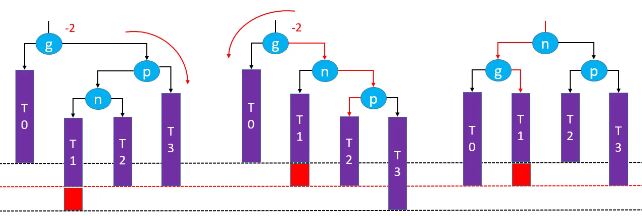
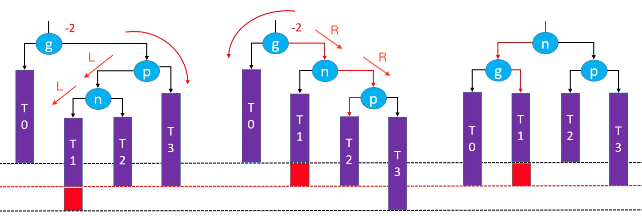
Site updated: 2021-01-26 11:56:43

diff --git a/2021/01/15/数据结构与算法/AVL树/index.html b/2021/01/15/数据结构与算法/AVL树/index.html
@@ -86,7 +86,10 @@
 <meta property="og:image" content="http://yoursite.com/2021/01/15/数据结构与算法/AVL树/AVL树08.png">
 <meta property="og:image" content="http://yoursite.com/2021/01/15/数据结构与算法/AVL树/AVL树09.png">
 <meta property="og:image" content="http://yoursite.com/2021/01/15/数据结构与算法/AVL树/AVL树10.png">
-<meta property="og:updated_time" content="2021-01-22T10:21:19.626Z">
+<meta property="og:image" content="http://yoursite.com/2021/01/15/数据结构与算法/AVL树/AVL树11.png">
+<meta property="og:image" content="http://yoursite.com/2021/01/15/数据结构与算法/AVL树/AVL树12.png">
+<meta property="og:image" content="http://yoursite.com/2021/01/15/数据结构与算法/AVL树/AVL树07.png">
+<meta property="og:updated_time" content="2021-01-26T03:56:15.321Z">
 <meta name="twitter:card" content="summary">
 <meta name="twitter:title" content="AVL树">
 <meta name="twitter:description" content="AVL树是最先发明的自平衡二叉查找树。在AVL树中任何节点的两个子树的高度最大差别为1，所以它也被称为高度平衡树。增加和删除可能需要通过一次或多次树旋转来重新平衡这个树。AVL树得名于它的发明者G. M. Adelson-Velsky和E. M. Landis，他们在1962年的论文《An algorithm for the organization of information》中发表了它。">
@@ -361,16 +364,33 @@
 <li><code>g.left = p.right</code></li>
 <li><code>p.right = g</code></li>
 <li>让<code>p</code>成为这棵子树的根节点</li>
+<li>更新 <code>T2</code>、<code>p</code>、<code>g</code> 的 parent 属性</li>
+<li>先后更新 <code>g</code>、<code>p</code> 的高度</li>
 </ol>
 <p>旋转后的子树又恢复了平衡，仍然是一棵二叉搜索树：T0 &lt; g &lt; T1 &lt; p &lt; T2 &lt; n &lt; T3。</p>
-<p>注意：一定要修改<code>T2</code>、<code>p</code>、<code>g</code>的 parent 属性；依次更新<code>g</code>、<code>p</code>的高度（因为旋转后，<code>g</code>是<code>p</code>的右子树，所以先计算子树的高度，然后 +1 就是<code>p</code>的高度）。<br><img src="/2021/01/15/数据结构与算法/AVL树/AVL树09.png" alt="AVL树"></p>
+<p>注意：一定要修改 <code>T2</code>、<code>p</code>、<code>g</code> 的 parent 属性；依次更新 <code>g</code>、<code>p</code> 的高度（因为旋转后，<code>g</code> 是 <code>p</code> 的右子树，所以先计算子树的高度，然后 +1 就是 <code>p</code> 的高度）。<br><img src="/2021/01/15/数据结构与算法/AVL树/AVL树09.png" alt="AVL树"></p>
 <h2 id="RR-左旋转（单旋）"><a href="#RR-左旋转（单旋）" class="headerlink" title="RR-左旋转（单旋）"></a>RR-左旋转（单旋）</h2><ol>
 <li><code>g.right = p.left</code></li>
 <li><code>p.left = g</code></li>
 <li>让<code>p</code>成为这个子树的根节点</li>
+<li>更新 <code>T1</code>、<code>p</code>、<code>g</code> 的 parent 属性</li>
+<li>先后更新 <code>g</code>、<code>p</code> 的高度</li>
 </ol>
-<p>旋转后的子树又恢复了平衡，仍然是一棵二叉搜索树：T0 &lt; g &lt; T1 &lt; p &lt; T2 &lt; n &lt; T3。</p>
-<p>注意：一定要修改<code>T1</code>、<code>p</code>、<code>g</code>的 parent 属性；依次更新<code>g</code>、<code>p</code>的高度。<br><img src="/2021/01/15/数据结构与算法/AVL树/AVL树10.png" alt="AVL树"></p>
+<p>旋转后的子树又恢复了平衡，仍然是一棵二叉搜索树：T0 &lt; g &lt; T1 &lt; p &lt; T2 &lt; n &lt; T3。<br><img src="/2021/01/15/数据结构与算法/AVL树/AVL树10.png" alt="AVL树"></p>
+<h2 id="LR-RR左旋转，LL右旋转（双旋）"><a href="#LR-RR左旋转，LL右旋转（双旋）" class="headerlink" title="LR-RR左旋转，LL右旋转（双旋）"></a>LR-RR左旋转，LL右旋转（双旋）</h2><p><img src="/2021/01/15/数据结构与算法/AVL树/AVL树11.png" alt="AVL树"></p>
+<h2 id="RL-LL右旋转，RR左旋转（双旋）"><a href="#RL-LL右旋转，RR左旋转（双旋）" class="headerlink" title="RL-LL右旋转，RR左旋转（双旋）"></a>RL-LL右旋转，RR左旋转（双旋）</h2><p><img src="/2021/01/15/数据结构与算法/AVL树/AVL树12.png" alt="AVL树"></p>
+<h1 id="CODE"><a href="#CODE" class="headerlink" title="CODE"></a>CODE</h1><h2 id="继承结构"><a href="#继承结构" class="headerlink" title="继承结构"></a>继承结构</h2><p>创建 AVLTree 继承自 BST。红黑树同理，创建 RBTree 继承自 BST。<br><img src="/2021/01/15/数据结构与算法/AVL树/AVL树07.png" alt="AVL树"></p>
+<h2 id="affterAdd"><a href="#affterAdd" class="headerlink" title="affterAdd"></a>affterAdd</h2><p>在节点的添加、删除操作之后，先办法让二叉搜索树恢复平衡（减小树的高度）。<br>在 BST 定义：<br><figure class="highlight crmsh"><table><tr><td class="gutter"><pre><div class="line">1</div></pre></td><td class="code"><pre><div class="line">protected void afterAdd(<span class="keyword">Node</span><span class="title">&lt;E</span>&gt; <span class="keyword">node</span><span class="title">) &#123; &#125;</span></div></pre></td></tr></table></figure></p>
+<p>在 AVLTree 实现：<br><figure class="highlight crmsh"><table><tr><td class="gutter"><pre><div class="line">1</div><div class="line">2</div><div class="line">3</div><div class="line">4</div><div class="line">5</div><div class="line">6</div><div class="line">7</div><div class="line">8</div><div class="line">9</div><div class="line">10</div><div class="line">11</div><div class="line">12</div><div class="line">13</div><div class="line">14</div><div class="line">15</div><div class="line">16</div><div class="line">17</div><div class="line">18</div><div class="line">19</div><div class="line">20</div><div class="line">21</div><div class="line">22</div></pre></td><td class="code"><pre><div class="line">@Override</div><div class="line">protected void afterAdd(<span class="keyword">Node</span><span class="title">&lt;E</span>&gt; <span class="keyword">node</span><span class="title">) &#123;</span></div><div class="line"><span class="title">    while</span> ((<span class="keyword">node</span> <span class="title">= node</span>.parent) != null) &#123;</div><div class="line">        if (isBalanced(<span class="keyword">node</span><span class="title">)) &#123;</span></div><div class="line"><span class="title">            // 更新高度</span></div><div class="line"><span class="title">            updateHeight</span>(<span class="keyword">node</span><span class="title">);</span></div><div class="line"><span class="title">        &#125; else</span> &#123;</div><div class="line">            // 恢复平衡</div><div class="line">            rebalance(<span class="keyword">node</span><span class="title">);</span></div><div class="line"><span class="title">            // 整棵树恢复平衡</span></div><div class="line"><span class="title">            break</span>;</div><div class="line">        &#125;</div><div class="line">    &#125;</div><div class="line">&#125;</div><div class="line"></div><div class="line">private boolean isBalanced(<span class="keyword">Node</span><span class="title">&lt;E</span>&gt; <span class="keyword">node</span><span class="title">) &#123;</span></div><div class="line"><span class="title">    return</span> Math.abs(((AVLNode<span class="tag">&lt;E&gt;</span>)<span class="keyword">node</span><span class="title">).balanceFactor</span>()) <span class="tag">&lt;= 1;</span></div><div class="line"><span class="tag">&#125;</span></div><div class="line"><span class="tag"></span></div><div class="line"><span class="tag">private void updateHeight(Node&lt;E&gt;</span> <span class="keyword">node</span><span class="title">) &#123;</span></div><div class="line"><span class="title">    ((AVLNode</span><span class="tag">&lt;E&gt;</span>)<span class="keyword">node</span><span class="title">).updateHeight</span>();</div><div class="line">&#125;</div></pre></td></tr></table></figure></p>
+<h2 id="AVLNode"><a href="#AVLNode" class="headerlink" title="AVLNode"></a>AVLNode</h2><ol>
+<li>因为 Node 里用不到 height 属性，所以定义 AVLNode 继承自 Node，添加 height 属性；</li>
+<li><code>isBalanced()</code> 是否平衡；</li>
+<li><code>updateHeight()</code> 更新高度；</li>
+<li><code>tallerChild()</code> 高度较高的子树，用于恢复平衡；<figure class="highlight groovy"><table><tr><td class="gutter"><pre><div class="line">1</div><div class="line">2</div><div class="line">3</div><div class="line">4</div><div class="line">5</div><div class="line">6</div><div class="line">7</div><div class="line">8</div><div class="line">9</div><div class="line">10</div><div class="line">11</div><div class="line">12</div><div class="line">13</div><div class="line">14</div><div class="line">15</div><div class="line">16</div><div class="line">17</div><div class="line">18</div><div class="line">19</div><div class="line">20</div><div class="line">21</div><div class="line">22</div><div class="line">23</div><div class="line">24</div><div class="line">25</div><div class="line">26</div><div class="line">27</div><div class="line">28</div></pre></td><td class="code"><pre><div class="line"><span class="keyword">private</span> <span class="keyword">static</span> <span class="class"><span class="keyword">class</span> <span class="title">AVLNode</span>&lt;<span class="title">E</span>&gt; <span class="keyword">extends</span> <span class="title">Node</span>&lt;<span class="title">E</span>&gt; &#123;</span></div><div class="line">    <span class="comment">//叶子节点高度默认1</span></div><div class="line">    <span class="keyword">int</span> height = <span class="number">1</span>;</div><div class="line">    </div><div class="line">    <span class="keyword">public</span> AVLNode(E element, Node&lt;E&gt; parent) &#123;</div><div class="line">        <span class="keyword">super</span>(element, parent);</div><div class="line">    &#125;</div><div class="line">    </div><div class="line">    <span class="keyword">public</span> <span class="keyword">int</span> balanceFactor() &#123;</div><div class="line">        <span class="keyword">int</span> leftHeight = left == <span class="literal">null</span> ? 0 : ((AVLNode&lt;E&gt;)left).height;</div><div class="line">        <span class="keyword">int</span> rightHeight = right == <span class="literal">null</span> ? 0 : ((AVLNode&lt;E&gt;)right).height;</div><div class="line">        <span class="keyword">return</span> leftHeight - rightHeight;</div><div class="line">    &#125;</div><div class="line">    </div><div class="line">    <span class="keyword">public</span> <span class="keyword">void</span> updateHeight() &#123;</div><div class="line">        <span class="keyword">int</span> leftHeight = left == <span class="literal">null</span> ? 0 : ((AVLNode&lt;E&gt;)left).height;</div><div class="line">        <span class="keyword">int</span> rightHeight = right == <span class="literal">null</span> ? 0 : ((AVLNode&lt;E&gt;)right).height;</div><div class="line">        height= <span class="number">1</span> + Math.max(leftHeight, rightHeight);</div><div class="line">    &#125;</div><div class="line">    </div><div class="line">    <span class="keyword">public</span> Node&lt;E&gt; tallerChild() &#123;</div><div class="line">        <span class="keyword">int</span> leftHeight = left == <span class="literal">null</span> ? 0 : ((AVLNode&lt;E&gt;)left).height;</div><div class="line">        <span class="keyword">int</span> rightHeight = right == <span class="literal">null</span> ? 0 : ((AVLNode&lt;E&gt;)right).height;</div><div class="line">        <span class="keyword">if</span> (leftHeight &gt; rightHeight) <span class="keyword">return</span> left;</div><div class="line">        <span class="keyword">if</span> (leftHeight &lt; rightHeight) <span class="keyword">return</span> right;</div><div class="line">        <span class="keyword">return</span> isLeftChild() ? left : right;</div><div class="line">    &#125;</div><div class="line">&#125;</div></pre></td></tr></table></figure>
+</li>
+</ol>
+<h2 id="rebalance"><a href="#rebalance" class="headerlink" title="rebalance"></a>rebalance</h2><figure class="highlight lasso"><table><tr><td class="gutter"><pre><div class="line">1</div><div class="line">2</div><div class="line">3</div><div class="line">4</div><div class="line">5</div><div class="line">6</div><div class="line">7</div><div class="line">8</div><div class="line">9</div><div class="line">10</div><div class="line">11</div><div class="line">12</div><div class="line">13</div><div class="line">14</div><div class="line">15</div><div class="line">16</div><div class="line">17</div><div class="line">18</div><div class="line">19</div><div class="line">20</div><div class="line">21</div><div class="line">22</div><div class="line">23</div><div class="line">24</div><div class="line">25</div><div class="line">26</div><div class="line">27</div><div class="line">28</div><div class="line">29</div><div class="line">30</div><div class="line">31</div><div class="line">32</div><div class="line">33</div><div class="line">34</div><div class="line">35</div><div class="line">36</div><div class="line">37</div><div class="line">38</div><div class="line">39</div><div class="line">40</div><div class="line">41</div><div class="line">42</div><div class="line">43</div><div class="line">44</div><div class="line">45</div><div class="line">46</div><div class="line">47</div><div class="line">48</div><div class="line">49</div><div class="line">50</div><div class="line">51</div><div class="line">52</div><div class="line">53</div><div class="line">54</div><div class="line">55</div><div class="line">56</div><div class="line">57</div><div class="line">58</div><div class="line">59</div><div class="line">60</div><div class="line">61</div><div class="line">62</div><div class="line">63</div><div class="line">64</div><div class="line">65</div><div class="line">66</div><div class="line">67</div><div class="line">68</div><div class="line">69</div><div class="line">70</div><div class="line">71</div><div class="line">72</div><div class="line">73</div><div class="line">74</div><div class="line">75</div><div class="line">76</div><div class="line">77</div><div class="line">78</div><div class="line">79</div><div class="line">80</div></pre></td><td class="code"><pre><div class="line"><span class="comment">// 恢复平衡</span></div><div class="line"><span class="keyword">private</span> <span class="literal">void</span> rebalance(Node&lt;E&gt; grand) &#123;</div><div class="line">    Node&lt;E&gt; <span class="keyword">parent</span> = ((AVLNode&lt;E&gt;)grand).tallerChild();</div><div class="line">    Node&lt;E&gt; node = ((AVLNode&lt;E&gt;)<span class="keyword">parent</span>).tallerChild();</div><div class="line">    <span class="keyword">if</span> (<span class="keyword">parent</span>.isLeftChild()) &#123; <span class="comment">//L</span></div><div class="line">        <span class="keyword">if</span> (node.isLeftChild()) &#123; <span class="comment">//LL</span></div><div class="line">            roteRight(grand);</div><div class="line">        &#125; <span class="keyword">else</span> &#123; <span class="comment">//LR</span></div><div class="line">            roteLeft(<span class="keyword">parent</span>);</div><div class="line">            roteRight(grand);</div><div class="line">        &#125;</div><div class="line">    &#125; <span class="keyword">else</span> &#123; <span class="comment">//R</span></div><div class="line">        <span class="keyword">if</span> (node.isLeftChild()) &#123; <span class="comment">//RL</span></div><div class="line">            roteRight(<span class="keyword">parent</span>);</div><div class="line">            roteLeft(grand);</div><div class="line">        &#125; <span class="keyword">else</span> &#123; <span class="comment">//RR</span></div><div class="line">            roteLeft(grand);</div><div class="line">        &#125;</div><div class="line">    &#125;</div><div class="line">&#125;</div><div class="line"></div><div class="line"><span class="comment">//左旋转（RR）</span></div><div class="line"><span class="keyword">private</span> <span class="literal">void</span> roteLeft(Node&lt;E&gt; grand) &#123;</div><div class="line">    Node&lt;E&gt; <span class="keyword">parent</span> = grand.right;</div><div class="line">    Node&lt;E&gt; child = <span class="keyword">parent</span>.left;</div><div class="line">    grand.right = child;</div><div class="line">    <span class="keyword">parent</span>.left = grand;</div><div class="line">    </div><div class="line">    <span class="comment">//让parent成为子树的根节点</span></div><div class="line">    <span class="keyword">parent</span>.<span class="keyword">parent</span> = grand.<span class="keyword">parent</span>;</div><div class="line">    <span class="keyword">if</span> (grand.isLeftChild()) &#123;</div><div class="line">        grand.<span class="keyword">parent</span>.left = <span class="keyword">parent</span>;</div><div class="line">    &#125; <span class="keyword">else</span> <span class="keyword">if</span> (grand.isRightChild()) &#123;</div><div class="line">        grand.<span class="keyword">parent</span>.right = <span class="keyword">parent</span>;</div><div class="line">    &#125; <span class="keyword">else</span> &#123;</div><div class="line">        root = <span class="keyword">parent</span>;</div><div class="line">    &#125;</div><div class="line">    </div><div class="line">    <span class="comment">//更新child的parent</span></div><div class="line">    <span class="keyword">if</span> (child != <span class="built_in">null</span>) &#123;</div><div class="line">        child.<span class="keyword">parent</span> = grand;</div><div class="line">    &#125;</div><div class="line">    </div><div class="line">    <span class="comment">//更新grand的parent</span></div><div class="line">    grand.<span class="keyword">parent</span> = <span class="keyword">parent</span>;</div><div class="line">    </div><div class="line">    <span class="comment">//更新高度</span></div><div class="line">    updateHeight(grand);</div><div class="line">    updateHeight(<span class="keyword">parent</span>);</div><div class="line">&#125;</div><div class="line"></div><div class="line"><span class="comment">//右旋转（LL）</span></div><div class="line"><span class="keyword">private</span> <span class="literal">void</span> roteRight(Node&lt;E&gt; grand) &#123;</div><div class="line">    Node&lt;E&gt; <span class="keyword">parent</span> = grand.left;</div><div class="line">    Node&lt;E&gt; child = <span class="keyword">parent</span>.right;</div><div class="line">    grand.left = child;</div><div class="line">    <span class="keyword">parent</span>.right = grand;</div><div class="line">    </div><div class="line">    <span class="comment">//让parent成为子树的根节点</span></div><div class="line">    <span class="keyword">parent</span>.<span class="keyword">parent</span> = grand.<span class="keyword">parent</span>;</div><div class="line">    <span class="keyword">if</span> (grand.isLeftChild()) &#123;</div><div class="line">        grand.<span class="keyword">parent</span>.left = <span class="keyword">parent</span>;</div><div class="line">    &#125; <span class="keyword">else</span> <span class="keyword">if</span> (grand.isRightChild()) &#123;</div><div class="line">        grand.<span class="keyword">parent</span>.right = <span class="keyword">parent</span>;</div><div class="line">    &#125; <span class="keyword">else</span> &#123;</div><div class="line">        root = <span class="keyword">parent</span>;</div><div class="line">    &#125;</div><div class="line">    </div><div class="line">    <span class="comment">//更新child的parent</span></div><div class="line">    <span class="keyword">if</span> (child != <span class="built_in">null</span>) &#123;</div><div class="line">        child.<span class="keyword">parent</span> = <span class="keyword">parent</span>;</div><div class="line">    &#125;</div><div class="line">    </div><div class="line">    <span class="comment">//更新grand的parent</span></div><div class="line">    grand.<span class="keyword">parent</span> = <span class="keyword">parent</span>;</div><div class="line">    </div><div class="line">    <span class="comment">//更新高度</span></div><div class="line">    updateHeight(grand);</div><div class="line">    updateHeight(<span class="keyword">parent</span>);</div><div class="line">&#125;</div></pre></td></tr></table></figure>
+<p>ps:<br><a href="https://www.cs.usfca.edu/~galles/visualization/Algorithms.html" target="_blank" rel="external">Data Structure Visualizations</a>  </p>
 
       
     </div>
@@ -573,7 +593,7 @@
             
 
             
-              <div class="post-toc-content"><ol class="nav"><li class="nav-item nav-level-1"><a class="nav-link" href="#平衡二叉搜索树（Balanced-Binary-Search-Tree）"><span class="nav-number">1.</span> <span class="nav-text">平衡二叉搜索树（Balanced Binary Search Tree）</span></a><ol class="nav-child"><li class="nav-item nav-level-2"><a class="nav-link" href="#二叉搜索树的复杂度分析"><span class="nav-number">1.1.</span> <span class="nav-text">二叉搜索树的复杂度分析</span></a></li><li class="nav-item nav-level-2"><a class="nav-link" href="#平衡（Balance）"><span class="nav-number">1.2.</span> <span class="nav-text">平衡（Balance）</span></a></li><li class="nav-item nav-level-2"><a class="nav-link" href="#理想平衡"><span class="nav-number">1.3.</span> <span class="nav-text">理想平衡</span></a></li><li class="nav-item nav-level-2"><a class="nav-link" href="#如何改进二叉搜索树？"><span class="nav-number">1.4.</span> <span class="nav-text">如何改进二叉搜索树？</span></a></li><li class="nav-item nav-level-2"><a class="nav-link" href="#经典的平衡二叉搜索树"><span class="nav-number">1.5.</span> <span class="nav-text">经典的平衡二叉搜索树</span></a><ol class="nav-child"><li class="nav-item nav-level-3"><a class="nav-link" href="#AVL-树"><span class="nav-number">1.5.1.</span> <span class="nav-text">AVL 树</span></a></li><li class="nav-item nav-level-3"><a class="nav-link" href="#红黑树"><span class="nav-number">1.5.2.</span> <span class="nav-text">红黑树</span></a></li></ol></li></ol></li><li class="nav-item nav-level-1"><a class="nav-link" href="#AVL-树-1"><span class="nav-number">2.</span> <span class="nav-text">AVL 树</span></a><ol class="nav-child"><li class="nav-item nav-level-2"><a class="nav-link" href="#平衡因子"><span class="nav-number">2.1.</span> <span class="nav-text">平衡因子</span></a></li><li class="nav-item nav-level-2"><a class="nav-link" href="#添加导致的失衡"><span class="nav-number">2.2.</span> <span class="nav-text">添加导致的失衡</span></a></li><li class="nav-item nav-level-2"><a class="nav-link" href="#LL-右旋转（单旋）"><span class="nav-number">2.3.</span> <span class="nav-text">LL-右旋转（单旋）</span></a></li><li class="nav-item nav-level-2"><a class="nav-link" href="#RR-左旋转（单旋）"><span class="nav-number">2.4.</span> <span class="nav-text">RR-左旋转（单旋）</span></a></li></ol></li></ol></div>
+              <div class="post-toc-content"><ol class="nav"><li class="nav-item nav-level-1"><a class="nav-link" href="#平衡二叉搜索树（Balanced-Binary-Search-Tree）"><span class="nav-number">1.</span> <span class="nav-text">平衡二叉搜索树（Balanced Binary Search Tree）</span></a><ol class="nav-child"><li class="nav-item nav-level-2"><a class="nav-link" href="#二叉搜索树的复杂度分析"><span class="nav-number">1.1.</span> <span class="nav-text">二叉搜索树的复杂度分析</span></a></li><li class="nav-item nav-level-2"><a class="nav-link" href="#平衡（Balance）"><span class="nav-number">1.2.</span> <span class="nav-text">平衡（Balance）</span></a></li><li class="nav-item nav-level-2"><a class="nav-link" href="#理想平衡"><span class="nav-number">1.3.</span> <span class="nav-text">理想平衡</span></a></li><li class="nav-item nav-level-2"><a class="nav-link" href="#如何改进二叉搜索树？"><span class="nav-number">1.4.</span> <span class="nav-text">如何改进二叉搜索树？</span></a></li><li class="nav-item nav-level-2"><a class="nav-link" href="#经典的平衡二叉搜索树"><span class="nav-number">1.5.</span> <span class="nav-text">经典的平衡二叉搜索树</span></a><ol class="nav-child"><li class="nav-item nav-level-3"><a class="nav-link" href="#AVL-树"><span class="nav-number">1.5.1.</span> <span class="nav-text">AVL 树</span></a></li><li class="nav-item nav-level-3"><a class="nav-link" href="#红黑树"><span class="nav-number">1.5.2.</span> <span class="nav-text">红黑树</span></a></li></ol></li></ol></li><li class="nav-item nav-level-1"><a class="nav-link" href="#AVL-树-1"><span class="nav-number">2.</span> <span class="nav-text">AVL 树</span></a><ol class="nav-child"><li class="nav-item nav-level-2"><a class="nav-link" href="#平衡因子"><span class="nav-number">2.1.</span> <span class="nav-text">平衡因子</span></a></li><li class="nav-item nav-level-2"><a class="nav-link" href="#添加导致的失衡"><span class="nav-number">2.2.</span> <span class="nav-text">添加导致的失衡</span></a></li><li class="nav-item nav-level-2"><a class="nav-link" href="#LL-右旋转（单旋）"><span class="nav-number">2.3.</span> <span class="nav-text">LL-右旋转（单旋）</span></a></li><li class="nav-item nav-level-2"><a class="nav-link" href="#RR-左旋转（单旋）"><span class="nav-number">2.4.</span> <span class="nav-text">RR-左旋转（单旋）</span></a></li><li class="nav-item nav-level-2"><a class="nav-link" href="#LR-RR左旋转，LL右旋转（双旋）"><span class="nav-number">2.5.</span> <span class="nav-text">LR-RR左旋转，LL右旋转（双旋）</span></a></li><li class="nav-item nav-level-2"><a class="nav-link" href="#RL-LL右旋转，RR左旋转（双旋）"><span class="nav-number">2.6.</span> <span class="nav-text">RL-LL右旋转，RR左旋转（双旋）</span></a></li></ol></li><li class="nav-item nav-level-1"><a class="nav-link" href="#CODE"><span class="nav-number">3.</span> <span class="nav-text">CODE</span></a><ol class="nav-child"><li class="nav-item nav-level-2"><a class="nav-link" href="#继承结构"><span class="nav-number">3.1.</span> <span class="nav-text">继承结构</span></a></li><li class="nav-item nav-level-2"><a class="nav-link" href="#affterAdd"><span class="nav-number">3.2.</span> <span class="nav-text">affterAdd</span></a></li><li class="nav-item nav-level-2"><a class="nav-link" href="#AVLNode"><span class="nav-number">3.3.</span> <span class="nav-text">AVLNode</span></a></li><li class="nav-item nav-level-2"><a class="nav-link" href="#rebalance"><span class="nav-number">3.4.</span> <span class="nav-text">rebalance</span></a></li></ol></li></ol></div>
             
 
           </div>

diff --git a/css/main.css b/css/main.css
@@ -1818,7 +1818,7 @@ pre .javascript .function {
   width: 4px;
   height: 4px;
   border-radius: 50%;
-  background: #4ef711;
+  background: #13ffac;
 }
 .links-of-blogroll {
   font-size: 13px;
